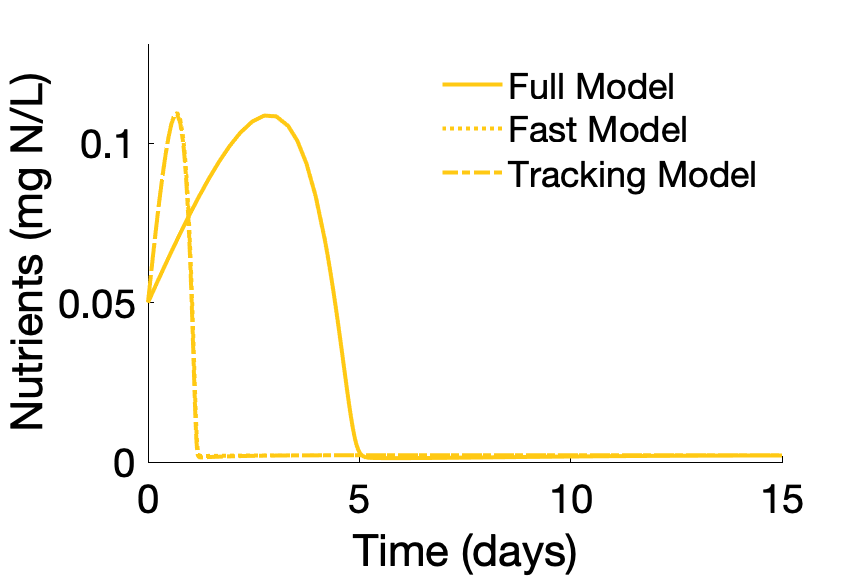
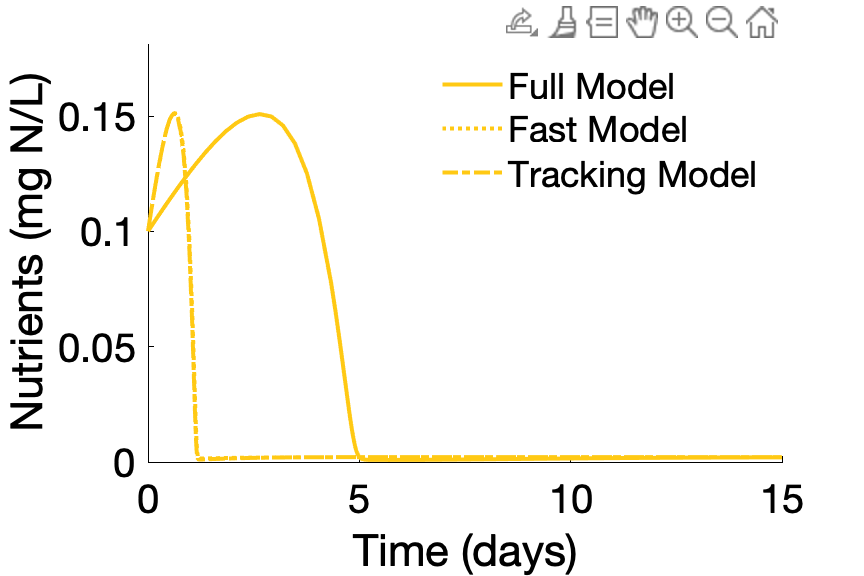
updated figures

diff --git a/Figure 4/figure_4.m b/Figure 4/figure_4.m
@@ -3,13 +3,13 @@
 % Steady state analysis of NAE-model using exponential function as
 % inflow/outflow of nutrients functions
 clear all; clc; close all;
-n=50;
+n=20;
 domain = [0 n];
 algaecolordet = 1/255*[118,176,65]; % color for algae (green)
 nutrientcolordet = 1/255*[255,201,20]; % color for nutrients (yellow)\
 EPScolordet = 1/255*[125,91,166]; % color for EPS
 % 
-% % %Parameter values for fig 4a
+% %Parameter values for fig 4a
 % phi = .0001;
 % psi = .1;
 % mu = .08;
@@ -19,22 +19,11 @@ EPScolordet = 1/255*[125,91,166]; % color for EPS
 % xi = .2;
 % delta = .007; 
 % eta = .03;
-
+% 
 
 % %Parameter values for fig 4b
-% phi = .1;
-% psi = .5;
-% mu = .08;
-% gamma = .01; 
-% nu_1 = .2; 
-% nu_2 = .05; 
-% xi = .2;
-% delta = .007; 
-% eta = .03;
-
-%Parameter values for fig 4c
-phi = .01;
-psi = .001;
+phi = .1;
+psi = .5;
 mu = .08;
 gamma = .01; 
 nu_1 = .2; 
@@ -42,6 +31,17 @@ nu_2 = .05;
 xi = .2;
 delta = .007; 
 eta = .03;
+
+% %Parameter values for fig 4c
+% phi = .01;
+% psi = .001;
+% mu = .000088;
+% gamma = .01; 
+% nu_1 = .2; 
+% nu_2 = .05; 
+% xi = .2;
+% delta = .007; 
+% eta = .03;
 
 %nondimensional conversion values 
 epsilon = eta/delta;
@@ -86,7 +86,7 @@ plot(IVsol_exp, A_sol_exp, 'color', algaecolordet, 'linewidth', 3);
 hold on;
 plot(IVsol_exp, E_sol_exp, 'color', EPScolordet, 'linewidth', 3,'LineStyle','-');
 ylim([0, max([A_sol_exp; E_sol_exp]) * 1.2]); % Ensures that the y-axis accommodates the largest value of algae or EPS
-ylabel('algae (mg chl A/L) & EPS (mg XGEQUIV/L)','FontSize',20,'Color','k');
+ylabel('algae (mg chl-a/L) & EPS (mg XG/L)','FontSize',20,'Color','k');
 
 % Set common properties
 xlim([0, n]);

diff --git a/Figure 1/figure_1.m b/Figure 1/figure_1.m
@@ -13,28 +13,28 @@ algaecolordet = 1/255*[118,176,65]; % color for algae (green)
 nutrientcolordet = 1/255*[255,201,20]; % color for nutrients (yellow)\
 EPScolordet = 1/255*[125,91,166]; % color for EPS 
 
-% %Parameter values for fig 1a
-% phi = .0001;
-% psi = .1;
-% mu = .08;
-% gamma = .01; 
-% nu_1 = .2; 
-% nu_2 = .05; 
-% xi = .2;
-% delta = .007; 
-% eta = .03;
-
-% 
-% %Parameter values for fig 1b
+%Parameter values for fig 1a
 phi = .0001;
-psi = .001;
-mu = .15;
+psi = .1;
+mu = .08;
 gamma = .01; 
 nu_1 = .2; 
 nu_2 = .05; 
 xi = .2;
 delta = .007; 
-eta = .03;% 
+eta = .03;
+
+% % 
+% % %Parameter values for fig 1b
+% phi = .0001;
+% psi = .001;
+% mu = .15;
+% gamma = .01; 
+% nu_1 = .2; 
+% nu_2 = .05; 
+% xi = .2;
+% delta = .007; 
+% eta = .03;% 
 
 %nondimensional conversion values 
 a = phi/(gamma*delta);
@@ -74,7 +74,7 @@ set(gca, 'fontsize', 18, 'XColor', 'k', 'YColor', 'k'); % Set axis tick label co
 % Plot algae on the right y-axis
 yyaxis right;
 plot(IVsol_fast, A_sol_fast, 'color', algaecolordet, 'linewidth', 4);
-ylabel('algae (mg chl A/L)','Color','k');
+ylabel('algae (mg chl-a/L)','Color','k');
 set(gca, 'fontsize', 18, 'XColor', 'k', 'YColor', 'k'); % Set axis tick label colors to black
 
 % Set common properties

diff --git a/Figure 2/figure_2.m b/Figure 2/figure_2.m
@@ -52,8 +52,8 @@ b_vals = b_func(a_vals);
 %Two parameter bifurcation graph of a vs b
 figure;
 plot(a_vals, b_vals, 'LineWidth', 2,'Color','k');
-xlabel('a (growth rate of algae)','FontSize', 25);
-ylabel('b (outflow of nutrients)','FontSize',25);
+xlabel('\it{a} (growth rate of algae)','FontSize', 25);
+ylabel('\it{b} (outflow of nutrients)','FontSize',25);
 text(3, 15, 'Unstable', 'Color', 'black', 'FontSize', 20, 'FontWeight', 'bold');
 text(6, 5, 'Stable', 'Color', 'black', 'FontSize', 20, 'FontWeight', 'bold');
 ylim([0,max(b_vals)])
@@ -73,7 +73,7 @@ hold on;
 
 plot(IVsol_slow, DVsol_slow* mu, 'color', EPScolordet, 'linewidth', 3);
 ylim([0, max(DVsol_slow*mu) * 1.2]);
-ylabel('EPS (mg XGEQUIV/L)','Color','k');
+ylabel('EPS (mg XG/L)','Color','k');
 set(gca, 'fontsize', 20, 'XColor', 'k', 'YColor', 'k'); % Set axis tick label colors to black
 
 

diff --git a/Figure 8/figure_8c.m b/Figure 8/figure_8c.m
@@ -106,9 +106,9 @@ plot(c_vec, A_max, 'color', algaecolordet, 'linewidth', 3);
 hold on;
 plot(c_vec, E_max, 'color', EPScolordet, 'linewidth', 3,'LineStyle','-');
 ylim([0, max([max(A_max); max(E_max)]) * 1.2]); % Ensures that the y-axis accommodates the largest value of algae or EPS
-ylabel('max algae (mg chl A/L) & EPS (mg XGEQUIV/L)','FontSize',17,'Color','k');
+ylabel('max algae (mg chl-a/L) & EPS (mg XG/L)','FontSize',17,'Color','k');
 
-xlabel('c (rate that algae uptake nutrients)', 'FontSize', 17);
+xlabel('\it{c} (rate that algae uptake nutrients)', 'FontSize', 17);
 xlim([min(c_vec),max(c_vec)])
 % Add legend
 set(gca, 'YColor', 'k'); % <-- Apply black color to right y-axis

diff --git a/Figure 8/figure_8d.m b/Figure 8/figure_8d.m
@@ -108,9 +108,9 @@ plot(d_vec, A_max, 'color', algaecolordet, 'linewidth', 3);
 hold on;
 plot(d_vec, E_max, 'color', EPScolordet, 'linewidth', 3,'LineStyle','-');
 ylim([0, max([max(A_max); max(E_max)]) * 1.2]); % Ensures that the y-axis accommodates the largest value of algae or EPS
-ylabel('max algae (mg chl A/L) & EPS (mg XGEQUIV/L)','FontSize',17,'Color','k');
+ylabel('max algae (mg chl-a/L) & EPS (mg XG/L)','FontSize',17,'Color','k');
 
-xlabel('d (growth rate of EPS due to algae)', 'FontSize', 20);
+xlabel('\it{d} (growth rate of EPS due to algae)', 'FontSize', 20);
 xlim([min(d_vec),max(d_vec)])
 set(gca, 'YColor', 'k'); % <-- Apply black color to right y-axis
 

diff --git a/Figure 8/figure_8b.m b/Figure 8/figure_8b.m
@@ -106,9 +106,9 @@ plot(b_vec, A_max, 'color', algaecolordet, 'linewidth', 3);
 hold on;
 plot(b_vec, E_max, 'color', EPScolordet, 'linewidth', 3,'LineStyle','-');
 ylim([0, max([max(A_max); max(E_max)]) * 1.2]); % Ensures that the y-axis accommodates the largest value of algae or EPS
-ylabel('max algae (mg chl A/L) & EPS (mg XGEQUIV/L)','FontSize',17,'Color','k');
+ylabel('max algae (mg chl-a/L) & EPS (mg XG/L)','FontSize',17,'Color','k');
 
-xlabel('b (outflow of nutrients)', 'FontSize', 20);
+xlabel('\it{b} (outflow of nutrients)', 'FontSize', 20);
 xlim([min(b_vec),max(b_vec)])
 
 set(gca, 'YColor', 'k'); % <-- Apply black color to right y-axis

diff --git a/Figure 8/figure_8a.m b/Figure 8/figure_8a.m
@@ -104,9 +104,9 @@ plot(a_vec, A_max, 'color', algaecolordet, 'linewidth', 3);
 hold on;
 plot(a_vec, E_max, 'color', EPScolordet, 'linewidth', 3,'LineStyle','-');
 ylim([0, max([max(A_max); max(E_max)]) * 1.2]); % Ensures that the y-axis accommodates the largest value of algae or EPS
-ylabel('max algae (mg chl A/L) & EPS (mg XGEQUIV/L)','FontSize',17,'Color','k');
+ylabel('max algae (mg chl-a/L) & EPS (mg XG/L)','FontSize',17,'Color','k');
 
-xlabel('a (inflow of nutrients)', 'FontSize', 20);
+xlabel('\it{a} (inflow of nutrients)', 'FontSize', 20);
 xlim([min(a_vec),max(a_vec)])
 
 set(gca, 'YColor', 'k'); % <-- Apply black color to right y-axis

diff --git a/Figure 9/Figure_9.m b/Figure 9/Figure_9.m
@@ -110,8 +110,8 @@ plot(f_vec, A_max, 'color', algaecolordet, 'linewidth', 3);
 hold on;
 plot(f_vec, E_max, 'color', EPScolordet, 'linewidth', 3,'LineStyle','-');
 ylim([0, max([max(A_max); max(E_max)]) * 1.2]); % Ensures that the y-axis accommodates the largest value of algae or EPS
-ylabel('max algae (mg chl A/L) & EPS (mg XGEQUIV/L)','FontSize',17,'Color','k');
-xlabel('f (growth rate of algae)', 'FontSize', 17);
+ylabel('max algae (mg chl-a/L) & EPS (mg XG/L)','FontSize',17,'Color','k');
+xlabel('\it{f} (growth rate of algae)', 'FontSize', 17);
 xlim([min(f_vec),max(f_vec)])
 
 

diff --git a/Figure 3/figure_3.m b/Figure 3/figure_3.m
@@ -91,7 +91,7 @@ ylim([0, maxnutrient * 1.2]);
 xlim([0, n]);
 
 xlabel('Time (days)', 'Color', 'k');
-ylabel('EPS (mg XGEQUIV/L)', 'Color', 'k');
+ylabel('EPS (mg XG/L)', 'Color', 'k');
 set(gca, 'FontSize', 20, 'XColor', 'k', 'YColor', 'k');
 
 legend('Location', 'northeast');
@@ -120,7 +120,7 @@ ylim([0, maxnutrient * 1.2]);
 xlim([0, n]);
 
 xlabel('Time (days)', 'Color', 'k');
-ylabel('Algae (mg chl A/L)', 'Color', 'k');
+ylabel('Algae (mg chl-a/L)', 'Color', 'k');
 set(gca, 'FontSize', 20, 'XColor', 'k', 'YColor', 'k');
 
 legend('Location', 'northeast');

diff --git a/Figure 10/FIgure_10.m b/Figure 10/FIgure_10.m
@@ -54,7 +54,7 @@ plot(IVsol_exp, A_sol_exp, 'color', algaecolordet, 'linewidth', 3);
 hold on;
 plot(IVsol_exp, E_sol_exp, 'color', EPScolordet, 'linewidth', 3,'LineStyle','-');
 ylim([0, max([A_sol_exp; E_sol_exp]) * 1.2]); % Ensures that the y-axis accommodates the largest value of algae or EPS
-ylabel('algae (mg chl A/L) & EPS (mg XGEQUIV/L)','FontSize',20,'Color','k');
+ylabel('algae (mg chl-a/L) & EPS (mg XG/L)','FontSize',20,'Color','k');
 
 % Set common properties
 xlim([0, n]);
